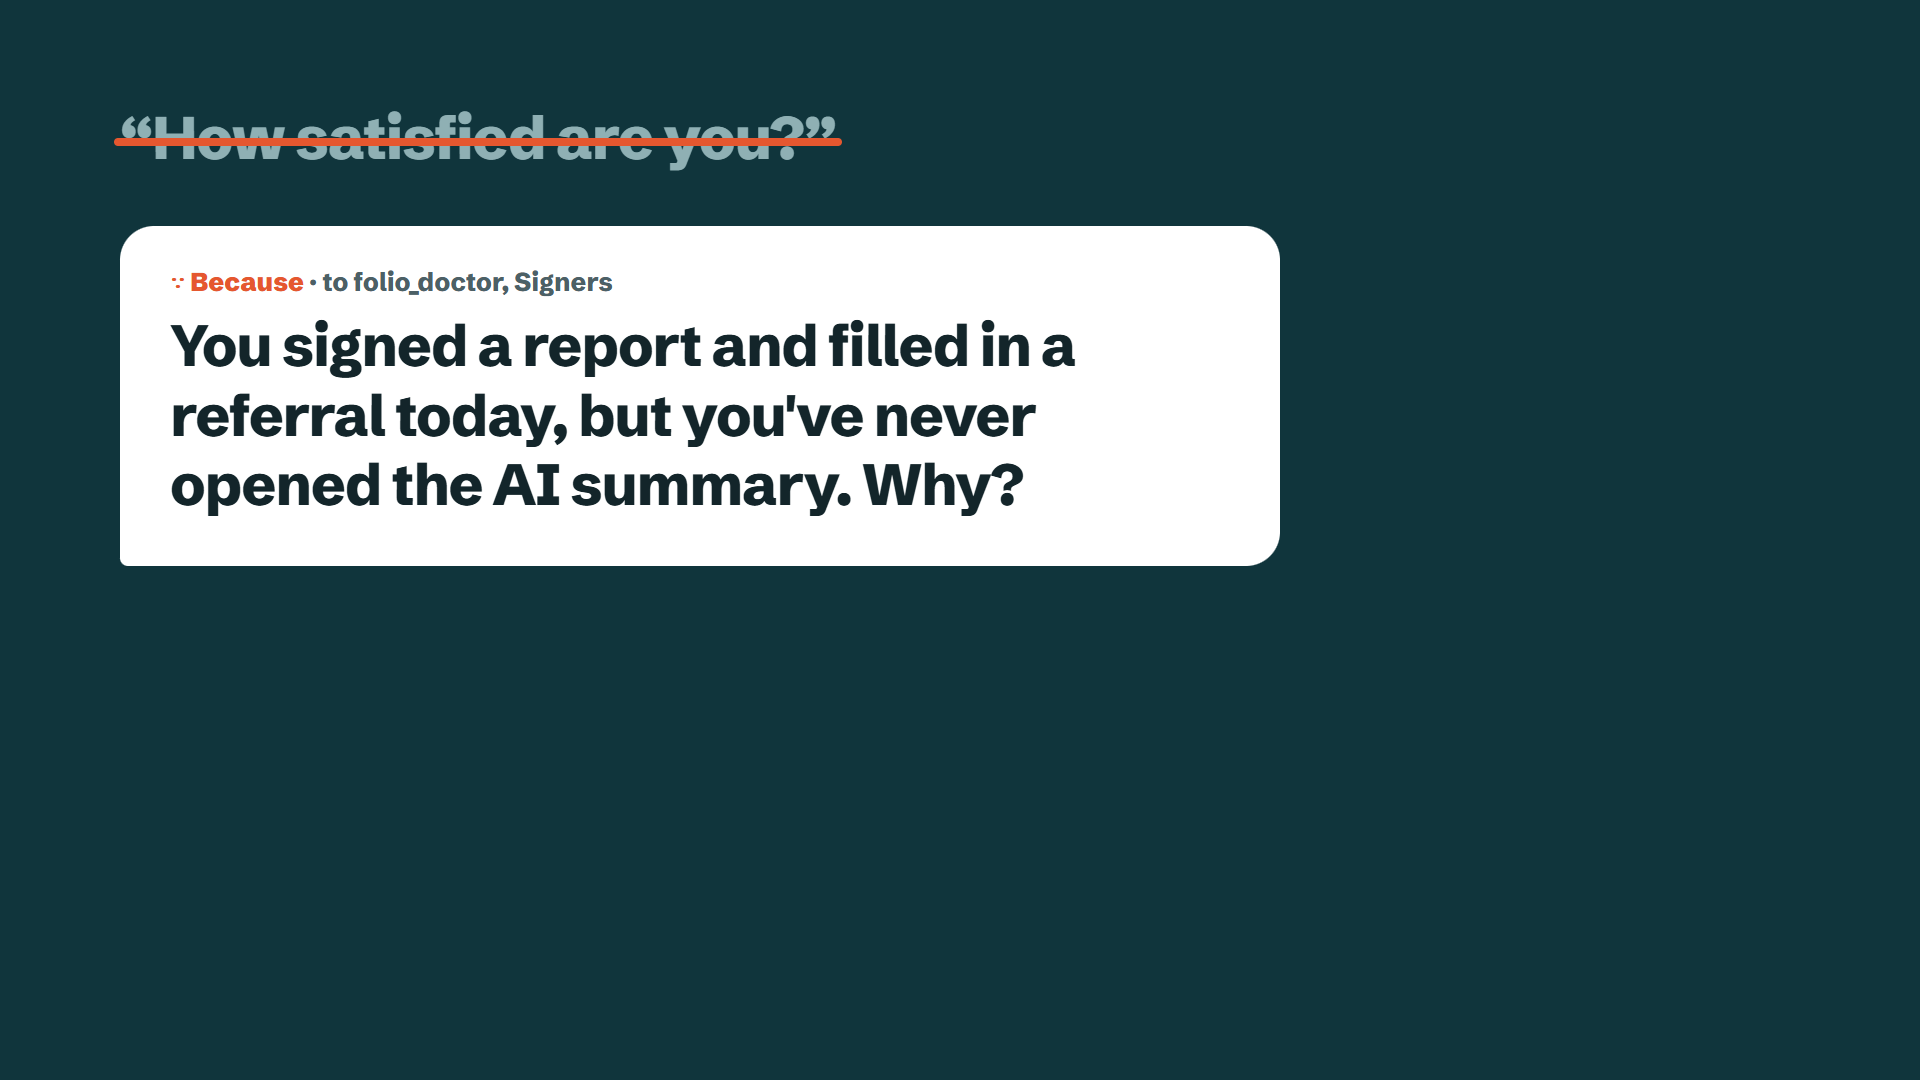
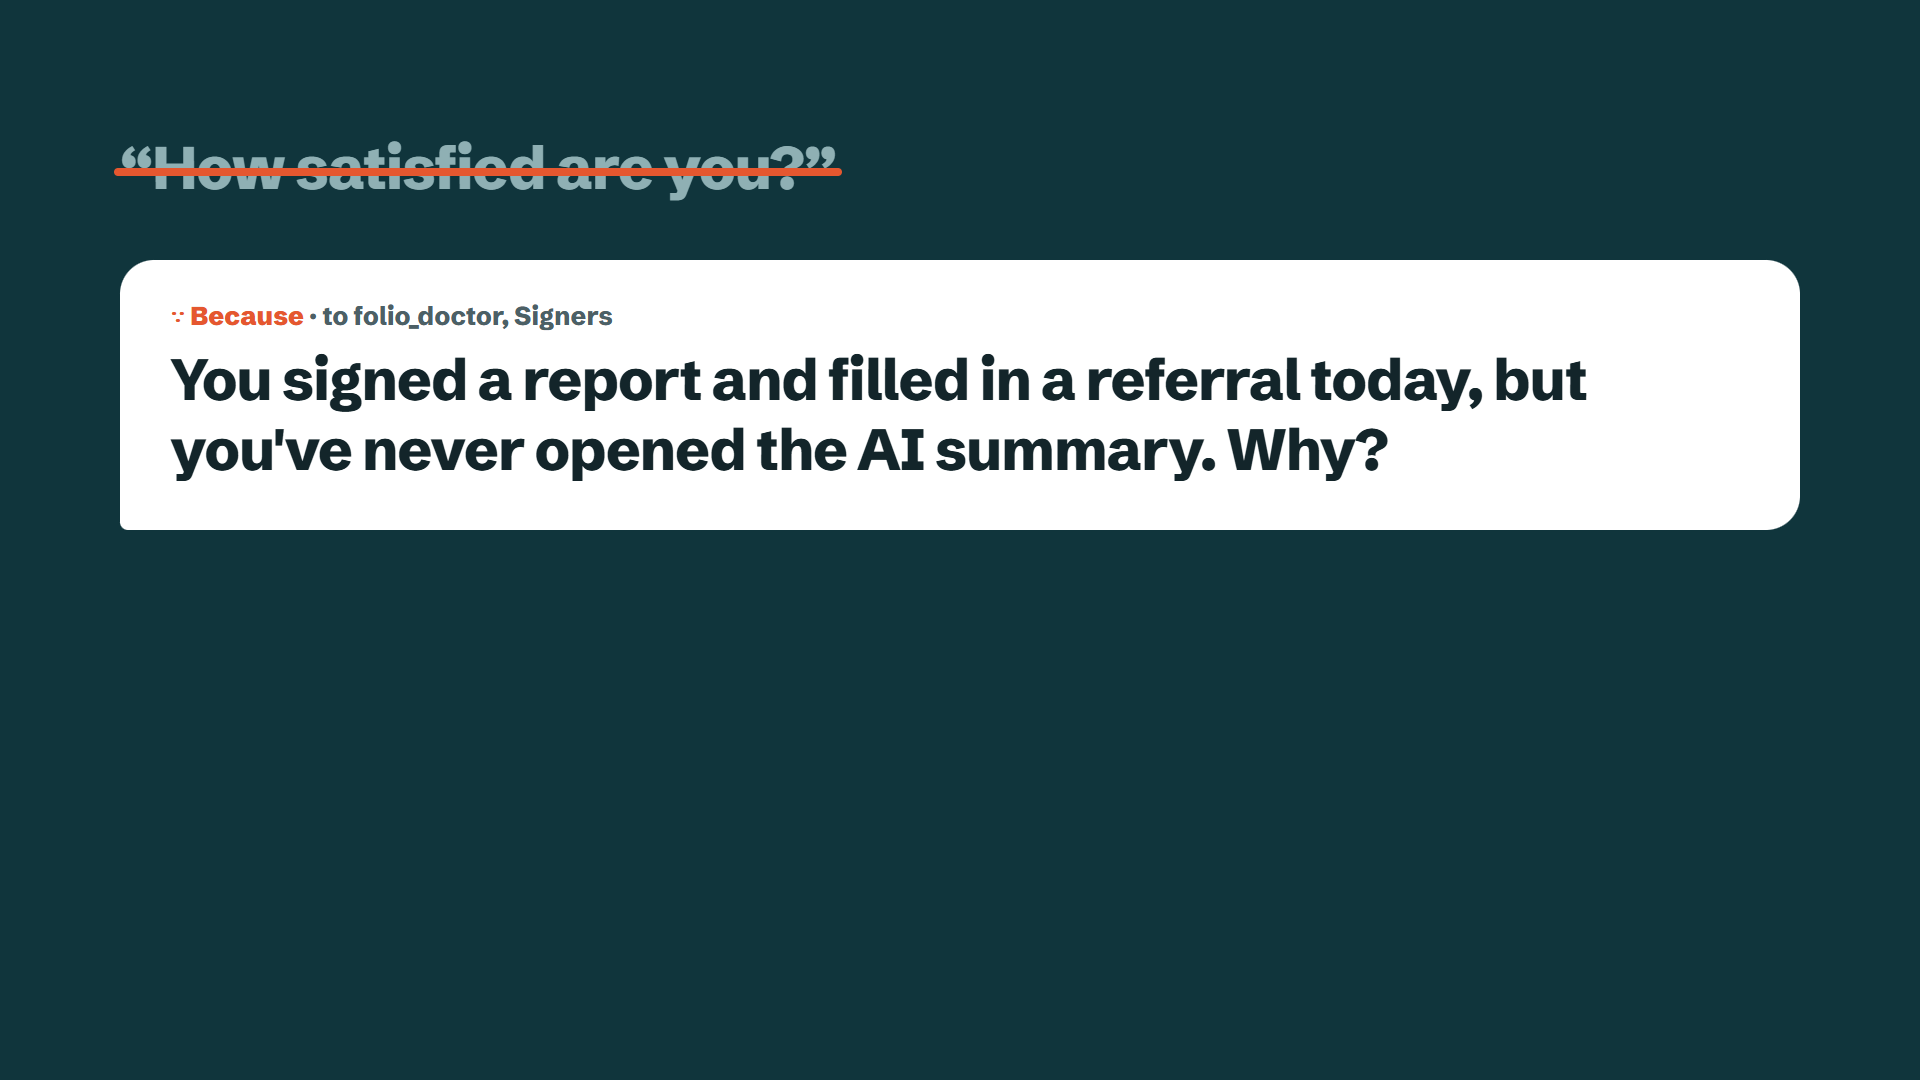
Pitch: bez slajda What you get i koraka sa PostHog profilom
Posle depth slajda ide demo pa interview. Interview ima dva koraka (pitanje i događaji preko cele širine). Matter i interview prevezani.

Changed region(s): [[0.0625, 0.0917, 0.9375, 0.55]]

diff --git a/pitch/interview.html b/pitch/interview.html
@@ -9,11 +9,10 @@
 <link href="https://fonts.googleapis.com/css2?family=Schibsted+Grotesk:wght@500;600;700;800;900&display=swap" rel="stylesheet">
 <style>
   /*
-    Because · „Intervju“, posle demoa uživo (rezime, ili rezerva ako demo zakaže). 3 koraka uz govor.
+    Because · „Intervju“, posle demoa uživo (rezime, ili rezerva ako demo zakaže). 2 koraka uz govor.
     1: ne pita „How satisfied are you?“ nego pitanje iz pravog korišćenja.
     2: svaka činjenica iz pitanja je događaj iz PostHoga (feature_used: sign, fill_form, ai_summary).
-    3: odgovor je na profilu u PostHogu (ai_segment, ai_main_reason), spreman za kohortu.
-    Napred: →, Space, PageDown, Enter, klik. Nazad: ←, PageUp. 1–3: skok. ?beat=2, ?static=1 (za PNG).
+    Napred: →, Space, PageDown, Enter, klik. Nazad: ←, PageUp. 1–2: skok. ?beat=2, ?static=1 (za PNG).
   */
   :root {
     --font: "Schibsted Grotesk", "Segoe UI", system-ui, sans-serif;
@@ -33,12 +32,12 @@
   [data-in].shown { visibility: visible; opacity: 1; }
 
   /* 1: anketno pitanje, precrtano */
-  .not { position: absolute; left: 120px; top: 100px; margin: 0; font-size: 60px; font-weight: 800; letter-spacing: -0.02em; color: var(--muted); }
+  .not { position: absolute; left: 120px; top: 130px; margin: 0; font-size: 60px; font-weight: 800; letter-spacing: -0.02em; color: var(--muted); }
   .not span { position: relative; }
   .not span::after { content: ""; position: absolute; left: -6px; right: -6px; top: 52%; height: 8px; border-radius: 4px; background: var(--voice); transform-origin: left center; transform: scaleX(var(--strike, 1)); }
 
   /* pitanje iz pravog korišćenja */
-  .ask { position: absolute; left: 120px; top: 226px; width: 1160px; padding: 40px 50px 46px; border-radius: 34px; border-bottom-left-radius: 8px; background: #ffffff; color: var(--ink); }
+  .ask { position: absolute; left: 120px; top: 260px; width: 1680px; padding: 40px 50px 46px; border-radius: 34px; border-bottom-left-radius: 8px; background: #ffffff; color: var(--ink); }
   .ask small { display: block; margin-bottom: 12px; font-size: 26px; font-weight: 800; color: #4c6066; }
   .ask small b { color: var(--voice); }
   .ask p { margin: 0; font-size: 58px; font-weight: 800; line-height: 1.2; letter-spacing: -0.02em; text-wrap: pretty; }
@@ -46,25 +45,12 @@
   .ask mark.on { background: rgba(229, 87, 47, 0.16); box-shadow: inset 0 -6px 0 var(--voice); }
 
   /* 2: činjenice = događaji */
-  .from { position: absolute; left: 120px; top: 624px; font-size: 28px; font-weight: 800; color: var(--soft); }
-  .events { position: absolute; left: 120px; top: 684px; width: 1160px; display: flex; justify-content: space-between; }
-  .ev { width: 340px; padding: 22px 28px; border-radius: 22px; border: 2px solid var(--line); background: var(--panel); }
+  .from { position: absolute; left: 120px; top: 610px; font-size: 28px; font-weight: 800; color: var(--soft); }
+  .events { position: absolute; left: 120px; top: 670px; width: 1680px; display: flex; justify-content: space-between; }
+  .ev { width: 520px; padding: 22px 28px; border-radius: 22px; border: 2px solid var(--line); background: var(--panel); }
   .ev code { display: block; font-family: inherit; font-size: 40px; font-weight: 900; color: var(--text); }
   .ev span { font-size: 28px; font-weight: 700; color: var(--soft); }
   .ev.zero span { color: var(--voice); font-weight: 800; }
-
-  /* 3: profil u PostHogu */
-  .profile { position: absolute; left: 1370px; top: 226px; width: 430px; padding: 34px 36px; border-radius: 30px; background: var(--panel); border: 2px solid var(--line); }
-  .profile small { display: block; font-size: 26px; font-weight: 800; color: var(--soft); }
-  .profile h2 { margin: 6px 0 0; font-size: 44px; font-weight: 900; letter-spacing: -0.02em; }
-  .props { margin: 26px 0 0; display: grid; gap: 18px; }
-  .prop { padding-top: 16px; border-top: 1px solid var(--line); }
-  .prop code { display: block; font-family: inherit; font-size: 26px; font-weight: 900; color: var(--voice); }
-  .prop span { font-size: 34px; font-weight: 800; line-height: 1.2; }
-  .cohort { position: absolute; left: 1370px; top: 684px; width: 430px; padding: 22px 28px; border-radius: 22px; background: #ffffff; color: var(--ink); display: flex; align-items: center; gap: 18px; }
-  .cohort i { flex: none; width: 52px; height: 52px; border-radius: 50%; background: var(--voice); display: grid; place-items: center; }
-  .cohort svg { width: 28px; height: 28px; fill: none; stroke: #ffffff; stroke-width: 4; stroke-linecap: round; }
-  .cohort b { font-size: 36px; font-weight: 900; letter-spacing: -0.015em; }
 
   .progress { position: absolute; left: 50%; bottom: 28px; transform: translateX(-50%); display: flex; gap: 14px; opacity: 0.55; }
   .progress i { width: 10px; height: 10px; border-radius: 50%; background: var(--line); }
@@ -89,28 +75,18 @@
     <div class="ev zero"><code>ai_summary</code><span>never</span></div>
   </div>
 
-  <section class="profile" data-in="3" aria-label="Person profile in PostHog">
-    <small>PostHog person</small>
-    <h2>folio_doctor</h2>
-    <div class="props">
-      <div class="prop"><code>ai_segment</code><span>signers</span></div>
-      <div class="prop"><code>ai_main_reason</code><span>“Reads every report anyway”</span></div>
-    </div>
-  </section>
-  <div class="cohort" data-in="3" data-delay="700"><i><svg viewBox="0 0 24 24"><path d="M12 5v14M5 12h14"/></svg></i><b>Build a cohort</b></div>
-
-  <div class="progress" aria-hidden="true"><i></i><i></i><i></i></div>
+  <div class="progress" aria-hidden="true"><i></i><i></i></div>
 </div>
 
 <script>
 (() => {
-  const PREV = "gets.html?beat=4", NEXT = "matter.html";
+  const PREV = "depth.html?beat=3", NEXT = "matter.html";
   const params = new URLSearchParams(location.search);
   const STATIC = params.get("static") === "1";
   const RM = matchMedia("(prefers-reduced-motion: reduce)").matches;
   const QUICK = STATIC || RM;
   const EASE = "cubic-bezier(0.22, 1, 0.36, 1)";
-  const STEPS = 3;
+  const STEPS = 2;
   const stage = document.getElementById("stage");
   const $ = (id) => document.getElementById(id);
   if (STATIC) stage.classList.add("static");
@@ -158,11 +134,6 @@
         evs().forEach((e, i) => rise(e, 400 + i * 700, 520));
       },
     },
-    3: {
-      reset() {},
-      final() {},
-      enter() { document.querySelectorAll(".prop").forEach((p, i) => rise(p, 500 + i * 300, 520)); },
-    },
   };
 
   const els = [...document.querySelectorAll("[data-in]")];
@@ -195,7 +166,7 @@
     if (["ArrowRight", "ArrowDown", "PageDown", " ", "Enter"].includes(k)) { e.preventDefault(); go(cur + 1); }
     else if (["ArrowLeft", "ArrowUp", "PageUp", "Backspace"].includes(k)) { e.preventDefault(); go(cur - 1); }
     else if (k === "Home") { cur = 0; go(1); }
-    else if (/^[1-3]$/.test(k)) go(Number(k));
+    else if (/^[1-2]$/.test(k)) go(Number(k));
   });
   stage.addEventListener("click", () => go(cur + 1));
   go(Math.max(1, Math.min(STEPS, Number(params.get("beat")) || 1)));

diff --git a/pitch/matter.html b/pitch/matter.html
@@ -102,7 +102,7 @@
 
 <script>
 (() => {
-  const PREV = "interview.html?beat=3", NEXT = "future.html";
+  const PREV = "interview.html?beat=2", NEXT = "future.html";
   const params = new URLSearchParams(location.search);
   const STATIC = params.get("static") === "1";
   const RM = matchMedia("(prefers-reduced-motion: reduce)").matches;

diff --git a/pitch/depth.html b/pitch/depth.html
@@ -96,7 +96,7 @@
 
 <script>
 (() => {
-  const PREV = "how.html?beat=5", NEXT = "gets.html";
+  const PREV = "how.html?beat=5", NEXT = "interview.html";
   const params = new URLSearchParams(location.search);
   const STATIC = params.get("static") === "1";
   const RM = matchMedia("(prefers-reduced-motion: reduce)").matches;
